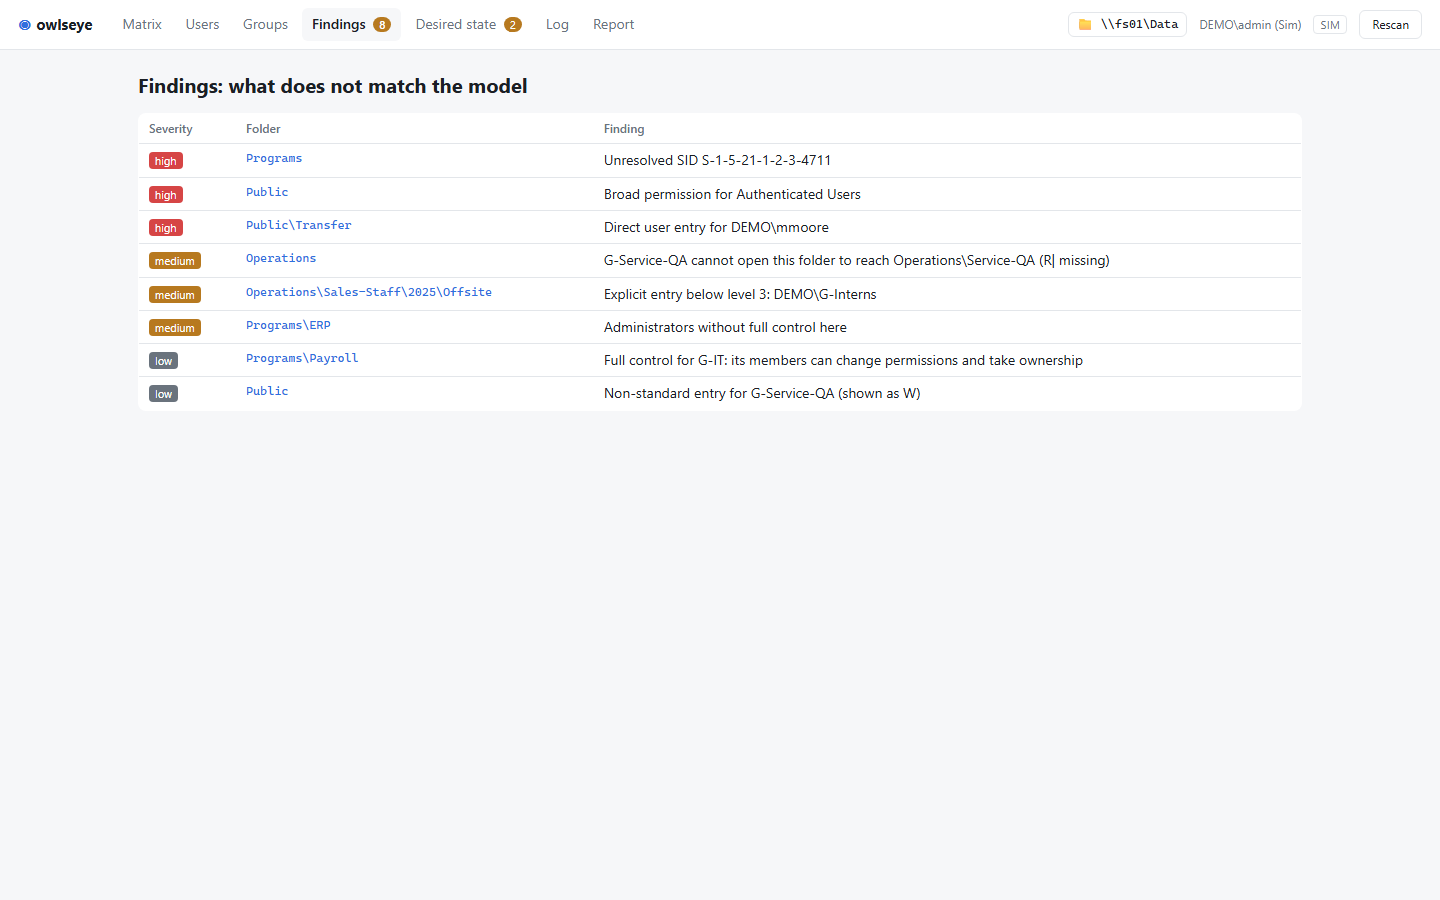
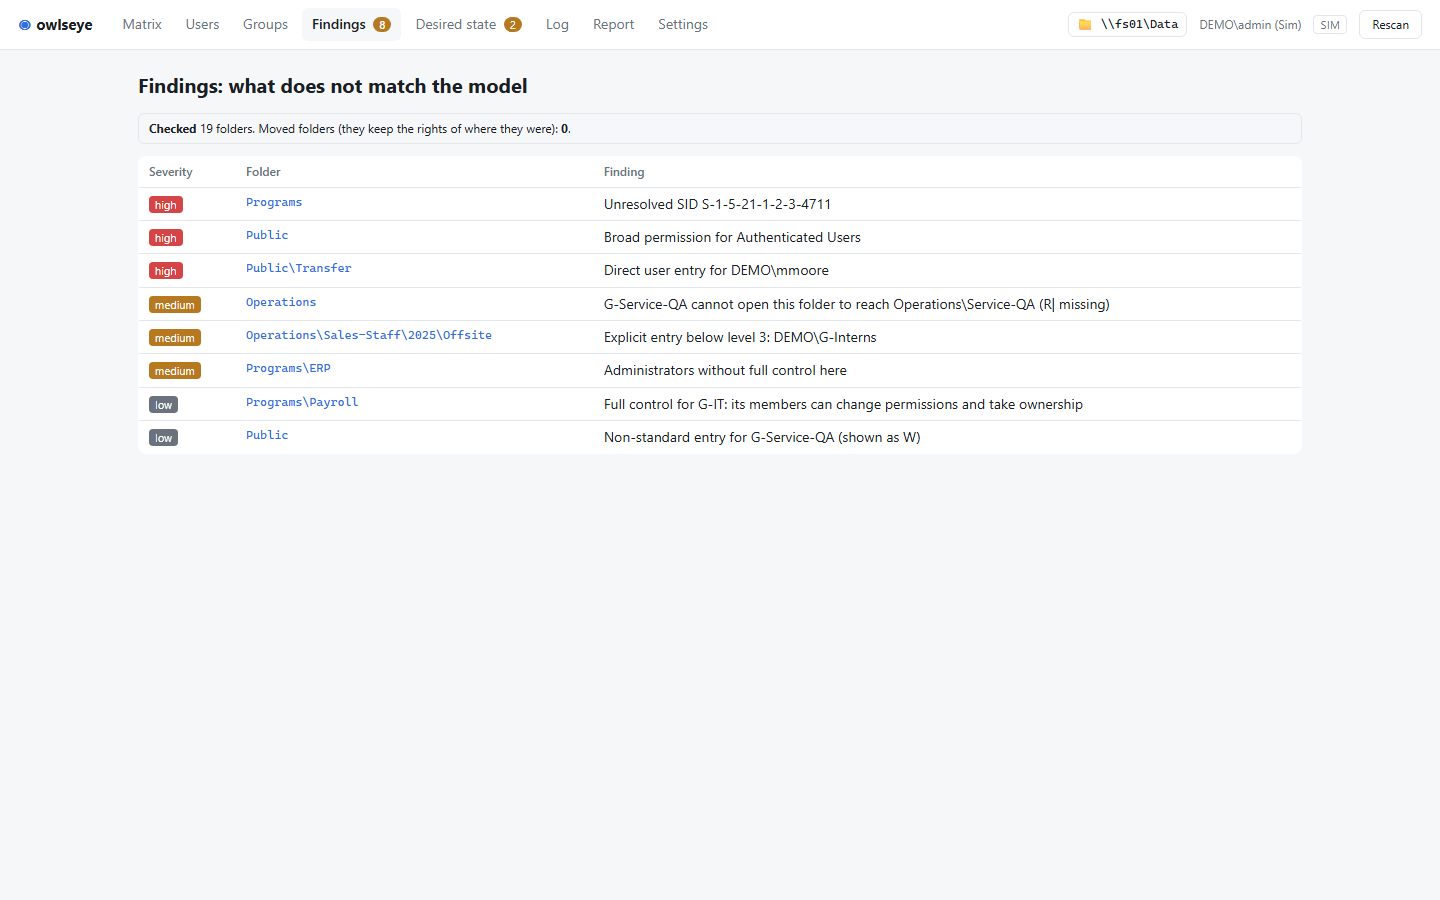
docs: screenshots of 0.9.24, plus the settings page
Regenerated from the demo data with tools/screenshots.mjs: the matrix with the
hidden-accounts switch and the new legend, the folder panel with the hidden
accounts, the findings page with what was checked. The settings page is new
and shown in the README next to the configuration.

Changed region(s): [[0.0938, 0.1244, 0.7812, 0.4978], [0.4688, 0.0, 0.5, 0.0311]]

diff --git a/README.md b/README.md
@@ -113,7 +113,8 @@ with `config.json` (see `config.example.json`) on the admin share, passed with `
 `owlseye.exe`. Without it, owlseye uses the domain anyway and asks for the share. `share` may be UNC or a drive letter; internally
 owlseye always works with UNC. `max_level` (default 3) is the default matrix depth (changeable in the UI);
 `scan_depth` limits how deep owlseye reads (default 20; 0 = whole tree). `write` says what `W` means: `"modify"`
-(default, read, write and delete, as Windows and most shares use it) or `"no-delete"` (read and write without delete).
+(default, read, write and delete, as Windows and most shares use it), `"no-delete"` (read and write without delete) or
+`"keep-folder"` (Modify inside, the folder itself cannot be deleted, renamed or moved).
 `hidden` lists further accounts that are not shown and not touched, e.g. a backup group with full control everywhere:
 `"hidden": ["CORP\\backup"]`. `full_control` lists the accounts that must have full control on the root and on folders
 with broken inheritance (default `["SYSTEM", "Administrators"]`; also `Domain Admins` in any language, SIDs or names).
@@ -128,6 +129,8 @@ settings go into the state folder; where the state folder is goes into the confi
 otherwise into `%LOCALAPPDATA%\owlseye\config.json`, which owlseye reads at the next start before a config.json next to
 the exe (order: `--config`, then that file, then the one next to the exe). Changing the state folder to one that
 already holds owlseye state takes over its desired state, log and settings; an empty one gets them moved there.
+
+![Settings: scan depth, what W means, full-control and hidden accounts, state folder](docs/screenshots/settings.png)
 
 ### Installing
 
